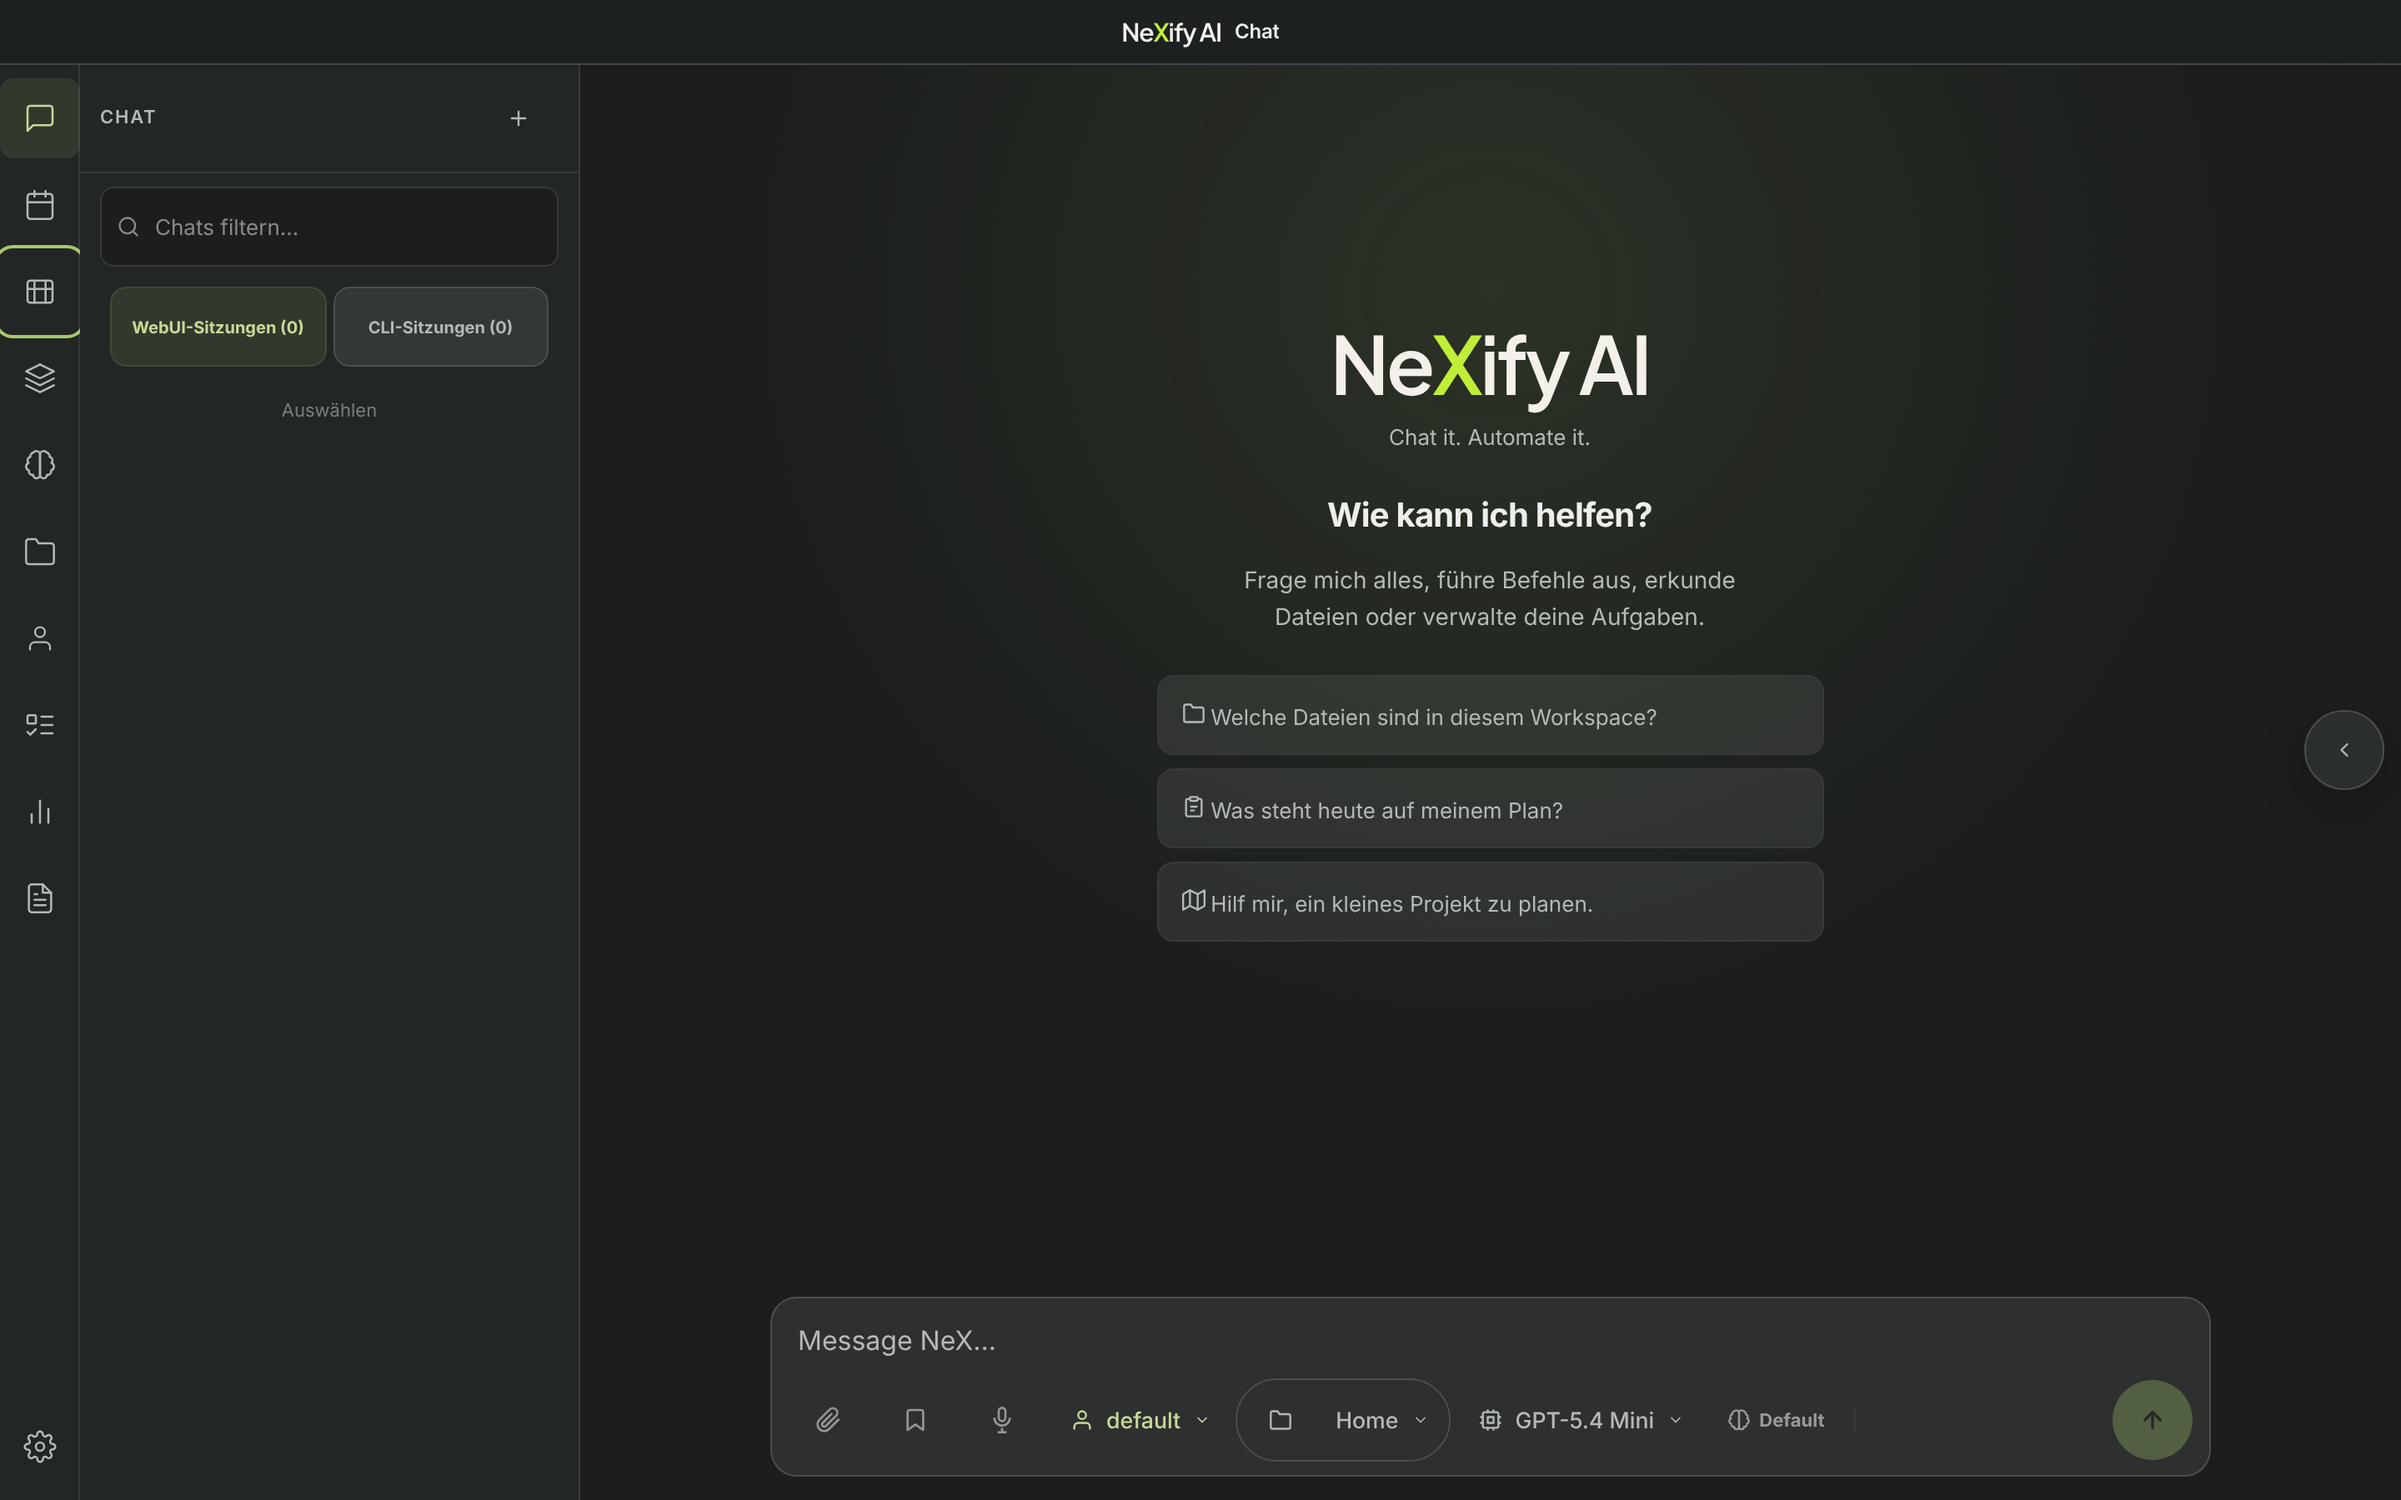
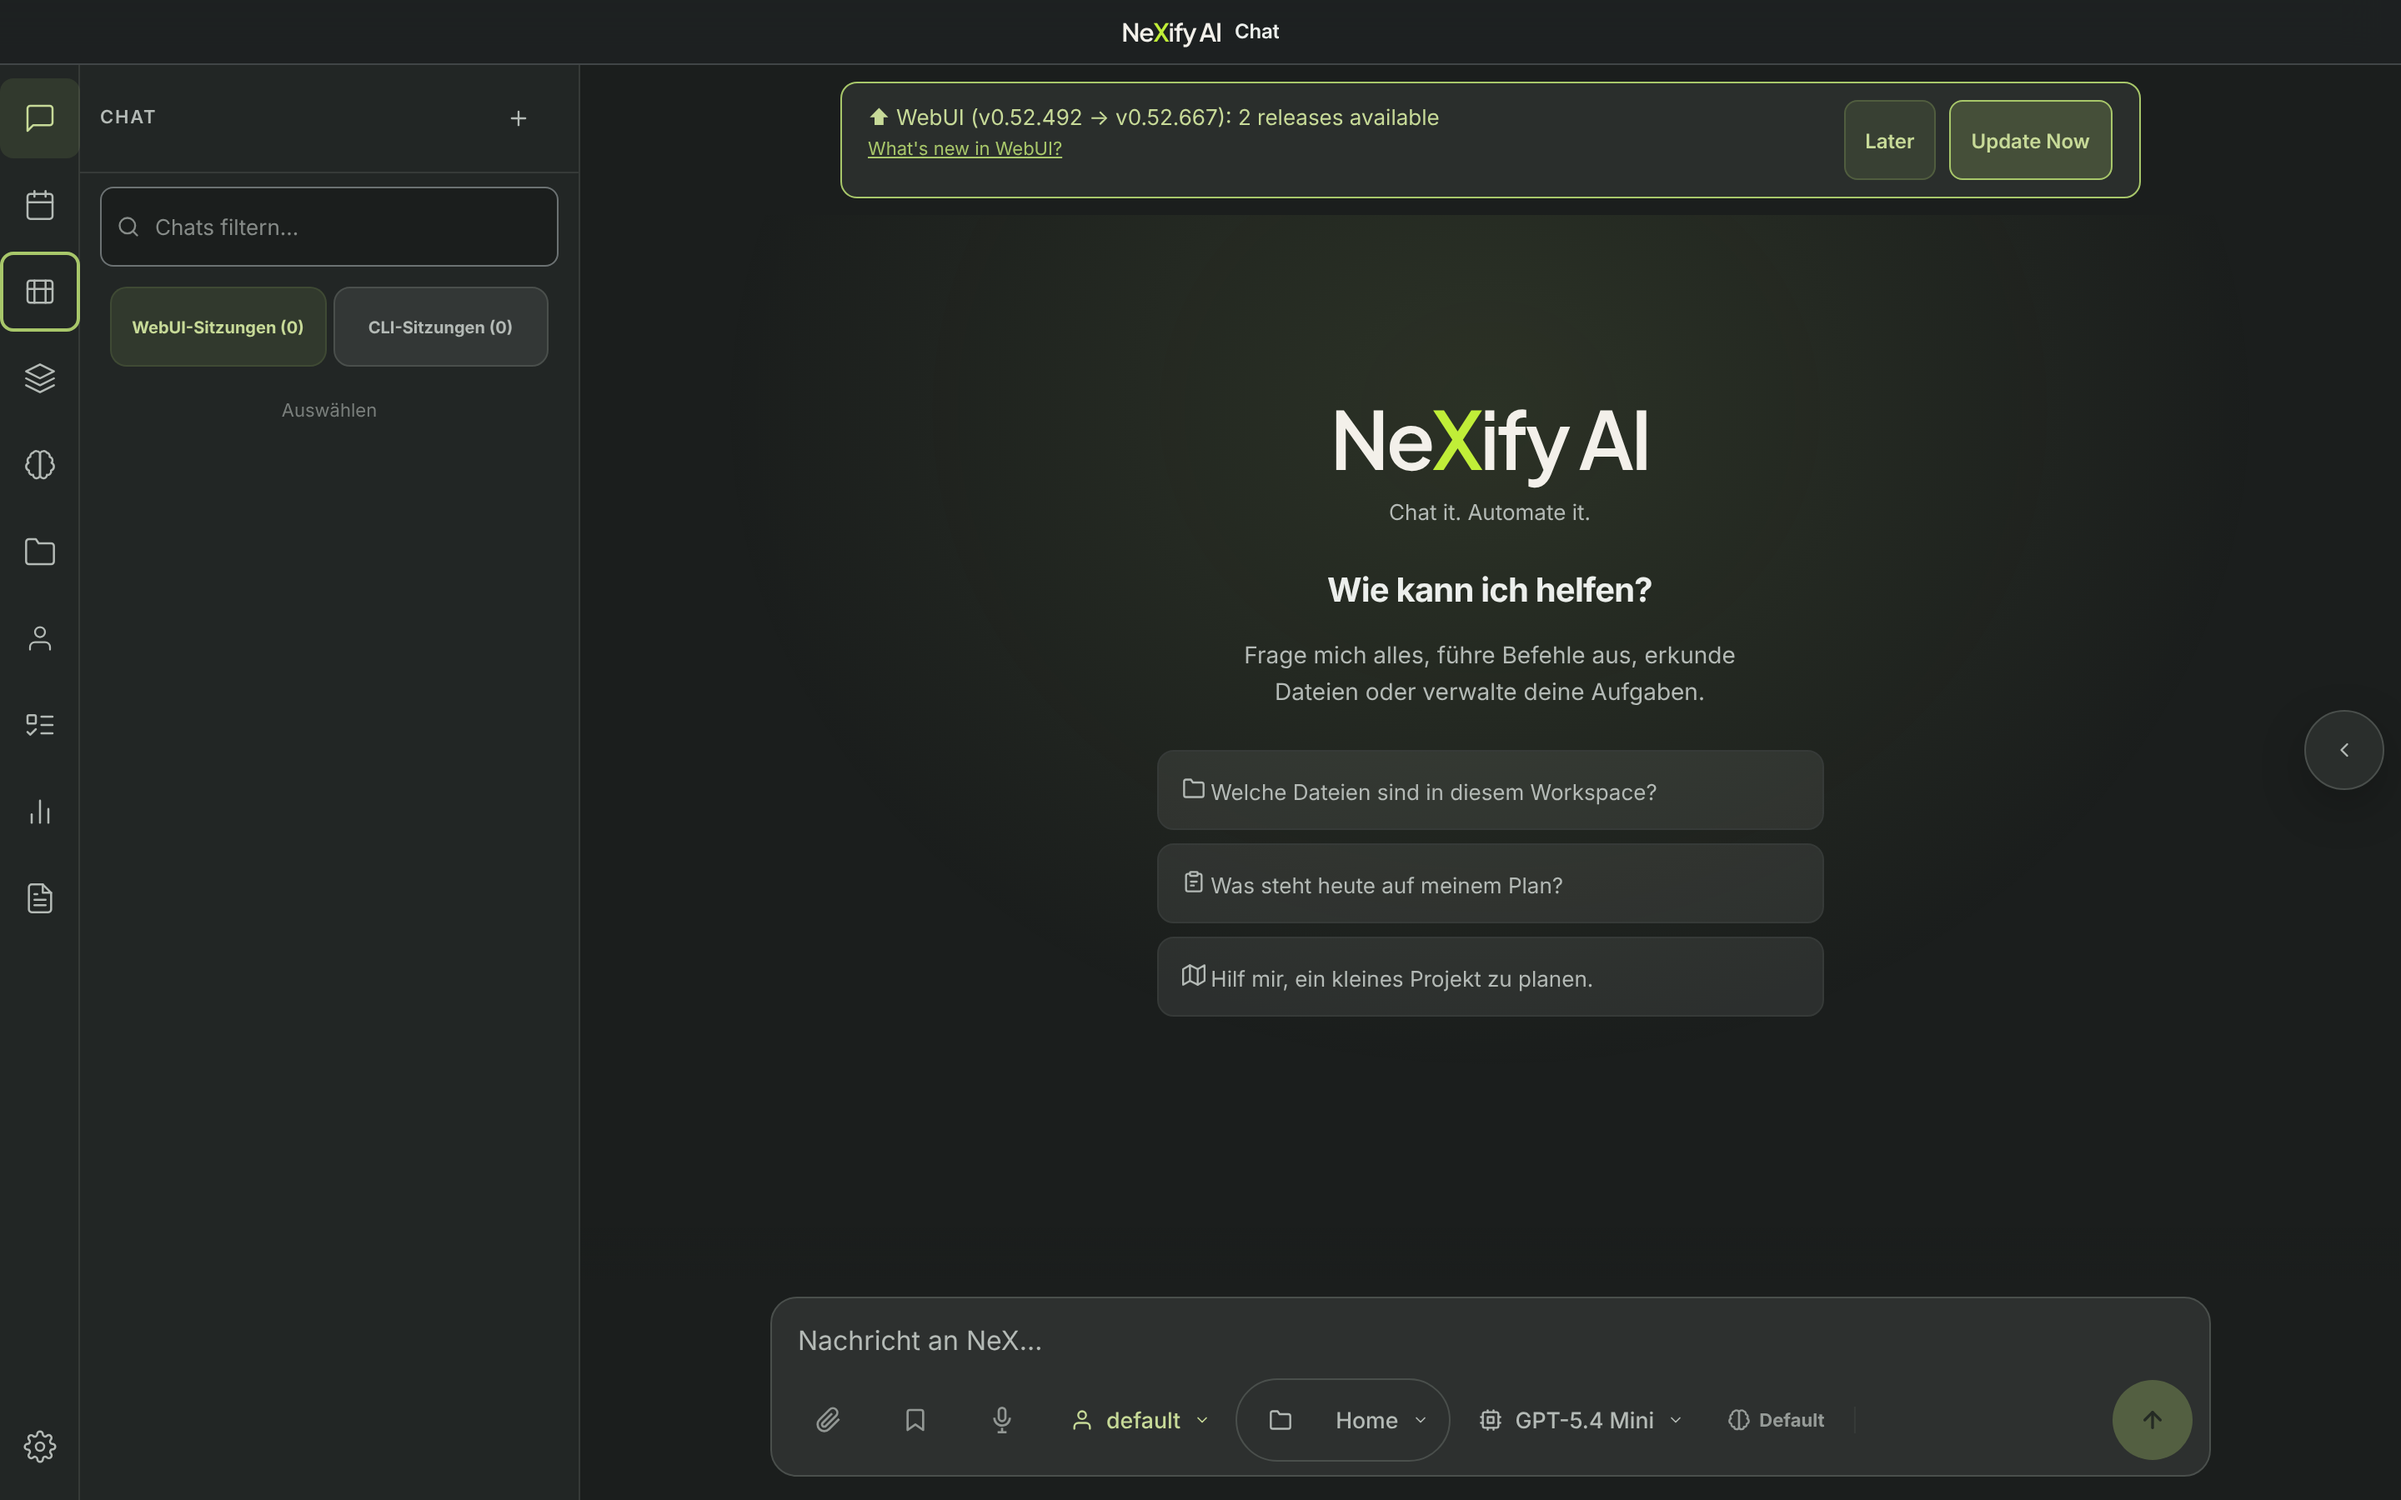
hermes: Bereitstell-Skript und Skin nach unabhängiger Prüfung berichtigt
Die Prüfung von PR 193 fand, dass die Prüfsummen-Prüfung immer fehlschlug (das
Manifest nannte sich selbst), dass ein erneutes Bereitstellen am laufenden
Container nicht wirkt (der Ordner wurde durch Umbenennen ersetzt, die Einhängung
zeigt dann auf den alten) und dass zwei Läufe sich in die Quere kommen können.
Das Skript schreibt jetzt in denselben Ordner, sichert vorher als Kopie, kann
zurück und sperrt gegen einen zweiten Lauf.

Am Skin: Die Zielgröße galt für jedes button und hätte dichte, ungeprüfte
Ansichten brechen können; mit der Maus gilt sie nur noch für die gemessenen
Elemente, mit dem Finger weiter für alle. Der Fokusrahmen der linken Leiste lag
am Fensterrand an und liegt jetzt innen. Der Platzhalter der Eingabe steht auf
Deutsch. Die zwei Einträge im Browser-Speicher sind benannt, der Prüfer lässt
nur sie zu. HERMES_WEBUI_HOST ist in der Vorlage auskommentiert, weil die Bindung
erst nach der Absicherung kommen darf.

Bildschirmfotos neu aufgenommen; ein Hinweis im Belegordner stellt klar, dass die
Modellanzeige darin aus einer Testinstanz ohne Bindung stammt.

Claude-Session: https://claude.ai/code/session_01HyncR6LU1rtGsGbcvQetht

diff --git a/ops/hermes/webui/nexify-graphite.css b/ops/hermes/webui/nexify-graphite.css
@@ -117,20 +117,41 @@
 :root[data-skin="nexify-graphite"] ::-webkit-scrollbar{width:10px;height:10px;}
 :root[data-skin="nexify-graphite"] ::-webkit-scrollbar-thumb{background:#4A4F4C;border-radius:999px;border:3px solid transparent;background-clip:content-box;}
 
-/* Zielgröße: jedes Bedienelement mindestens 48px (target.min; Auftrag verlangt ≥44px), auch mit Maus */
-:root[data-skin="nexify-graphite"] button,
-:root[data-skin="nexify-graphite"] [role="button"],
-:root[data-skin="nexify-graphite"] select,
+/* Zielgröße 48px (target.min; Auftrag verlangt ≥44px).
+   Mit Maus oder Trackpad nur für die benannten Bedienelemente von Navigation, Sitzungsliste und
+   Eingabezeile: Sie sind an v0.52.492 gemessen. Dichte Ansichten (Werkzeugkarten, Kanban, Terminal)
+   bleiben dort unberührt, damit kein ungeprüftes Layout bricht. */
+:root[data-skin="nexify-graphite"] .rail-btn,
 :root[data-skin="nexify-graphite"] .nav-tab,
+:root[data-skin="nexify-graphite"] .panel-head-btn,
+:root[data-skin="nexify-graphite"] .session-source-tab,
 :root[data-skin="nexify-graphite"] .session-item,
-:root[data-skin="nexify-graphite"] input[type="text"],
-:root[data-skin="nexify-graphite"] input[type="search"],
-:root[data-skin="nexify-graphite"] input[type="password"],
-:root[data-skin="nexify-graphite"] textarea{min-height:48px;}
-:root[data-skin="nexify-graphite"] button,
-:root[data-skin="nexify-graphite"] [role="button"],
-:root[data-skin="nexify-graphite"] .nav-tab{min-width:48px;}
+:root[data-skin="nexify-graphite"] .suggestion,
+:root[data-skin="nexify-graphite"] .icon-btn,
+:root[data-skin="nexify-graphite"] .send-btn,
+:root[data-skin="nexify-graphite"] .composer-profile-chip,
+:root[data-skin="nexify-graphite"] .composer-workspace-files-btn,
+:root[data-skin="nexify-graphite"] .composer-workspace-chip,
+:root[data-skin="nexify-graphite"] .composer-model-chip,
+:root[data-skin="nexify-graphite"] .composer-reasoning-chip,
+:root[data-skin="nexify-graphite"] .workspace-panel-edge-toggle,
+:root[data-skin="nexify-graphite"] .update-btn,
+:root[data-skin="nexify-graphite"] .app-titlebar button{min-height:48px;min-width:48px;}
+:root[data-skin="nexify-graphite"] .session-search-field input,
+:root[data-skin="nexify-graphite"] .settings-search input{min-height:48px;}
+/* Der Fokusrahmen der Leiste am linken Rand liegt innen, sonst schneidet ihn der Fensterrand ab. */
+:root[data-skin="nexify-graphite"] .rail-btn:focus-visible{outline-offset:-2px !important;}
+/* Mit dem Finger gilt die Zielgröße für jedes Bedienelement. */
 @media (pointer:coarse){
+  :root[data-skin="nexify-graphite"] button,
+  :root[data-skin="nexify-graphite"] [role="button"],
+  :root[data-skin="nexify-graphite"] select,
+  :root[data-skin="nexify-graphite"] input[type="text"],
+  :root[data-skin="nexify-graphite"] input[type="search"],
+  :root[data-skin="nexify-graphite"] input[type="password"],
+  :root[data-skin="nexify-graphite"] textarea{min-height:48px;}
+  :root[data-skin="nexify-graphite"] button,
+  :root[data-skin="nexify-graphite"] [role="button"]{min-width:48px;}
   :root[data-skin="nexify-graphite"] input,
   :root[data-skin="nexify-graphite"] textarea,
   :root[data-skin="nexify-graphite"] select{font-size:16px;} /* atelierSystem.schrift.16: kein Zoom beim Tippen auf iOS */

diff --git a/ops/hermes/webui/nexify-graphite.js b/ops/hermes/webui/nexify-graphite.js
@@ -2,6 +2,13 @@
    Nutzt nur die dokumentierte Schnittstelle window.registerHermesSkin (docs/EXTENSIONS.md,
    „Registering a custom theme (skin)“) und fügt eigene, eindeutig benannte Elemente hinzu.
    Ruft keine API der Oberfläche auf, sendet nichts, liest keine Gespräche.
+   Schreibt im Browser genau zwei Einträge in localStorage:
+     - 'nexify-skin-vorgabe' (eigener Merker: die Vorauswahl ist für diesen Browser erfolgt)
+     - 'hermes-skin' (Eintrag der Oberfläche für den gewählten Skin; nur einmal und nur, wenn
+       dort noch kein anderer Skin gewählt ist). THEMES.md nennt localStorage als Ablage der
+       Skin-Wahl; boot.js erhält dort ausdrücklich einen Skin, den eine Erweiterung erst später
+       anmeldet. Eine eigene Schnittstelle zum Vorauswählen bietet v0.52.492 nicht.
+   ops/hermes/webui/pruefe-gestaltung.py lässt nur diese beiden Schlüssel zu.
    Farbwerte: config/design-tokens.json (Pfad im Kommentar). */
 (function () {
   'use strict';
@@ -90,7 +97,17 @@
     if (farbe && an && farbe.getAttribute('content') !== GRUND) farbe.setAttribute('content', GRUND);
   }
 
-  function lauf() { marke(); zeichen(); }
+  // Die Oberfläche setzt den Platzhalter der Eingabe fest auf Englisch („Message <Name>…“).
+  // Solange der Skin gewählt ist, steht er auf Deutsch; der Name bleibt, wie die Oberfläche ihn setzt.
+  var PLATZ = /^Message (.+)\u2026$/;
+  function platzhalter() {
+    var feld = document.getElementById('msg');
+    if (!feld || !aktiv()) return;
+    var treffer = PLATZ.exec(feld.getAttribute('placeholder') || '');
+    if (treffer) feld.setAttribute('placeholder', 'Nachricht an ' + treffer[1] + '\u2026');
+  }
+
+  function lauf() { marke(); zeichen(); platzhalter(); }
 
   function start() {
     registrieren();
@@ -99,6 +116,8 @@
     new MutationObserver(lauf).observe(document.documentElement, { attributes: true, attributeFilter: ['data-skin', 'class'] });
     var meta = document.getElementById('hermes-theme-color');
     if (meta) new MutationObserver(zeichen).observe(meta, { attributes: true, attributeFilter: ['content'] });
+    var feld = document.getElementById('msg');
+    if (feld) new MutationObserver(platzhalter).observe(feld, { attributes: true, attributeFilter: ['placeholder'] });
   }
 
   if (document.readyState === 'loading') document.addEventListener('DOMContentLoaded', start);

diff --git a/ops/hermes/webui/pruefe-gestaltung.py b/ops/hermes/webui/pruefe-gestaltung.py
@@ -85,6 +85,19 @@ def pruefe() -> list[str]:
         if verboten in js:
             fehler.append(f"{SKIN}.js enthält {verboten}")
 
+    # Browser-Speicher: nur die zwei dokumentierten Schlüssel, kein sessionStorage, keine Cookies.
+    erlaubt = {"'hermes-skin'", "VORGABE"}
+    if "var VORGABE = 'nexify-skin-vorgabe';" not in js:
+        fehler.append(f"{SKIN}.js: Merker 'nexify-skin-vorgabe' fehlt oder heißt anders")
+    for schluessel in re.findall(r"speicher\((?:true|false),\s*([^,)]+)", js):
+        if schluessel.strip() not in erlaubt:
+            fehler.append(f"{SKIN}.js: Browser-Speicher mit nicht dokumentiertem Schlüssel {schluessel.strip()}")
+    if len(re.findall(r"localStorage", re.sub(r"/\*.*?\*/", "", js, flags=re.S))) != 2:
+        fehler.append(f"{SKIN}.js: localStorage darf nur in der einen Hilfsfunktion `speicher` stehen (Lesen und Schreiben)")
+    for verboten in ("sessionStorage", "indexedDB"):
+        if verboten in js:
+            fehler.append(f"{SKIN}.js enthält {verboten}")
+
     ext = json.loads((HIER / "extensions.json").read_text(encoding="utf-8"))
     eintrag = ext["extensions"][0]
     for datei in eintrag["stylesheets"] + eintrag["scripts"]:

diff --git a/evidence/hermes-arbeitsbereich-2026-11-14/README.md b/evidence/hermes-arbeitsbereich-2026-11-14/README.md
@@ -1,0 +1,7 @@
+# Bildschirmfotos Hermes-Oberfläche mit Skin „NeXify Graphite“
+
+Aufgenommen am 14.11.2026, 21:47 bis 21:52 UTC, mit Chromium über Playwright bei 390 px (Touch, Reduced-Motion) und 1440 px, zweifache Pixeldichte.
+
+**Lokale Testinstanz, nicht der Server:** `nesquena/hermes-webui` v0.52.492 aus dem öffentlichen Quellstand, ohne Hermes Agent, ohne Schlüssel, ohne Modellaufruf, ohne Anmeldung. Die Anzeige „GPT-5.4 Mini“ in der Eingabezeile ist der Vorgabewert der Oberfläche in dieser Testinstanz. Sie belegt keine Modellbindung und kein aufgerufenes Modell; die Vorgabe der Agentur steht in `config/llm-policy.json`.
+
+Die Bilder belegen die Gestaltung. Einordnung, Messwerte und was nicht geprüft ist: `docs/04-betrieb/hermes-arbeitsbereich-2026-11-14.md`, Abschnitte 3a und 5.
